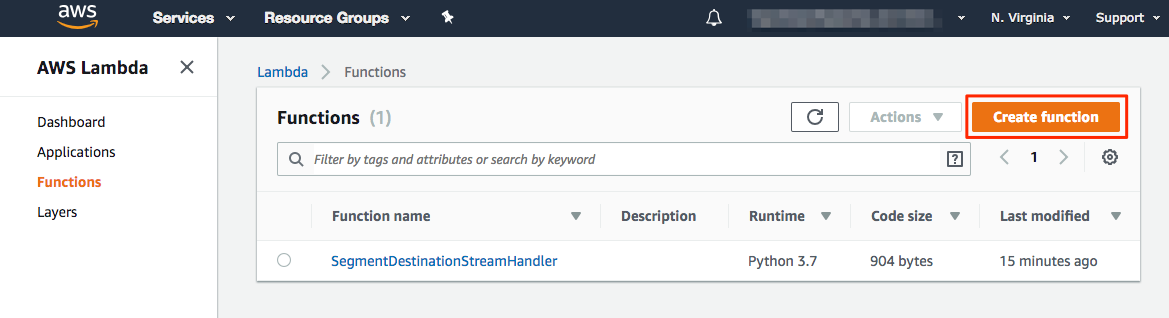
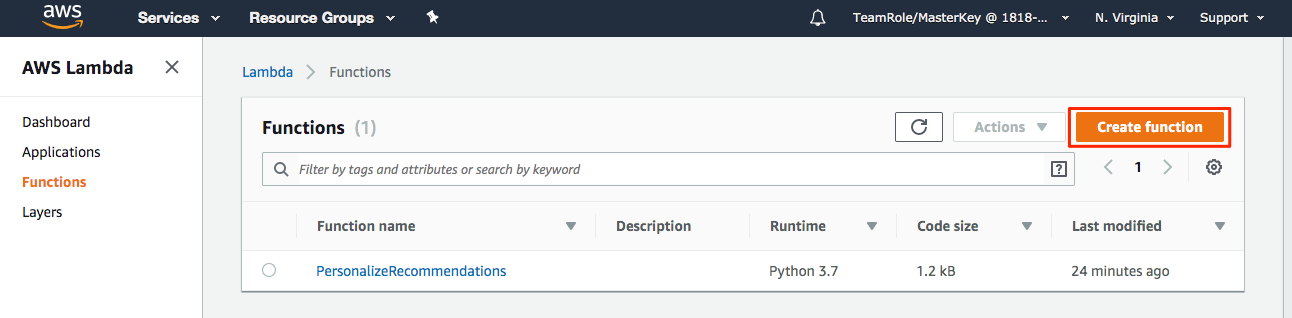
Ex 4 content and screenshot updates

diff --git a/exercise4/README.md b/exercise4/README.md
@@ -37,7 +37,7 @@ First you will create a Lambda function that gets called by the Segment Personal
 3. Click ‘Create Function’ (see image below).
 
 
-![Lambda Create Function](https://github.com/james-jory/segment-personalize-workshop/raw/master/exercise4/images/LambdaCreateFunction.png)
+![Lambda Create Function](images/LambdaCreateFunction.png)
 
 4. Select “Author from scratch” at the top of the screen.
 5. Enter the name for your function: `SegmentPersonalizeDestinationHandler`. ***You must use this name for your function since the pre-made IAM policy for calling your function from Segment expects this name.***
@@ -140,24 +140,18 @@ The `trackingId` function argument in your Lambda code identifies the Personaliz
 34. Enter a name for your Event Tracker.
 35. Click the Next button.
 
-
-![](https://paper-attachments.dropbox.com/s_C2B02AED879A518AEFAF0FFED12CDDE467AF9DAEA3DC2098084E706023E68F50_1558281742532_image.png)
-
+![Personalize Config Event Tracker](images/PersonalizeConfigTracker.png)
 
 The Event Tracker's tracking ID is displayed on the following page and is also available on the Event Tracker's detail page.
 
-
 36. Copy this value to your clipboard and **be sure to press the "Finish" button**.
 
-
-![](https://paper-attachments.dropbox.com/s_C2B02AED879A518AEFAF0FFED12CDDE467AF9DAEA3DC2098084E706023E68F50_1558281842051_image.png)
-
-
+![Personalize Tracker ID](images/PersonalizeTrackerId.png)
 
 37. Return to your Lambda function.
 38. Create a new key called `personalize_tracking_id`.
 39. Paste the Event Tracker’s tracking ID into the value field.
-40. Click the Save button at the top of the page to save your changes.
+40. **Click the Save button at the top of the page to save your changes.**
 
 
 ![](https://paper-attachments.dropbox.com/s_C2B02AED879A518AEFAF0FFED12CDDE467AF9DAEA3DC2098084E706023E68F50_1558281914584_image.png)
@@ -178,7 +172,7 @@ Your Lambda will also need a key for the Segment source that will ingest events 
 44. Back again to your Lambda tab or window.
 45. Create a new key called `connections_source_write_key`.
 46. Paste the source key you just copied into the value field.
-47. Scroll to the top of the page and click the Save button to save your changes.
+47. **Scroll to the top of the page and click the Save button to save your changes.**
 
 
 ![](https://paper-attachments.dropbox.com/s_C2B02AED879A518AEFAF0FFED12CDDE467AF9DAEA3DC2098084E706023E68F50_1558282013045_image.png)
